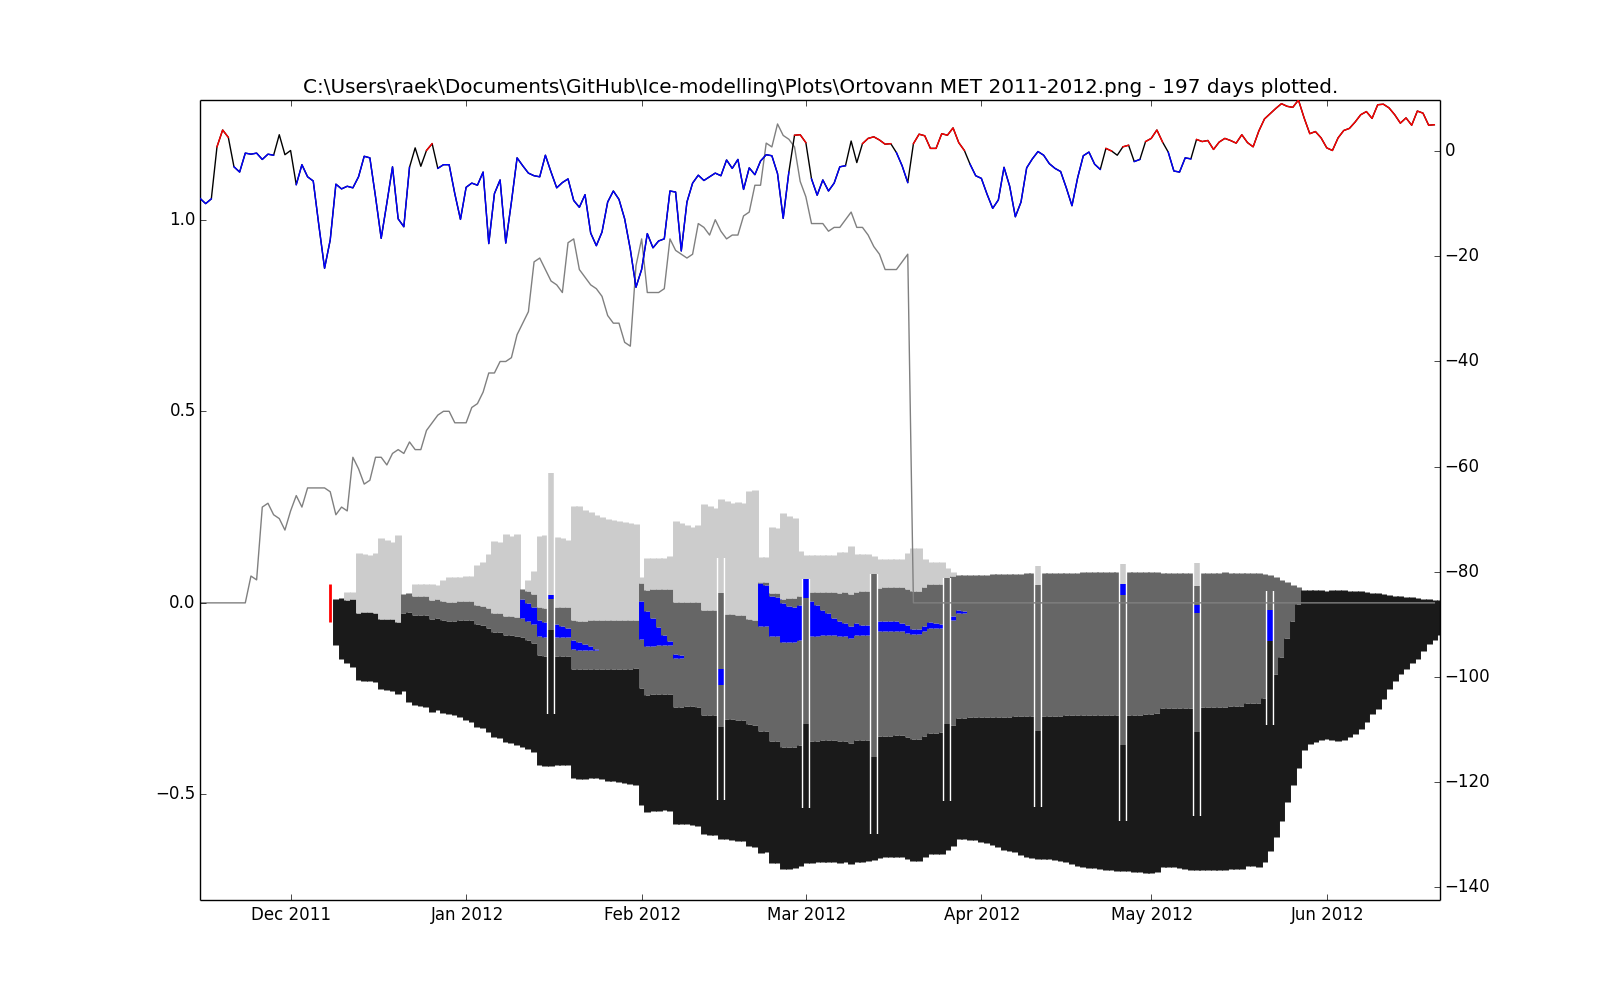
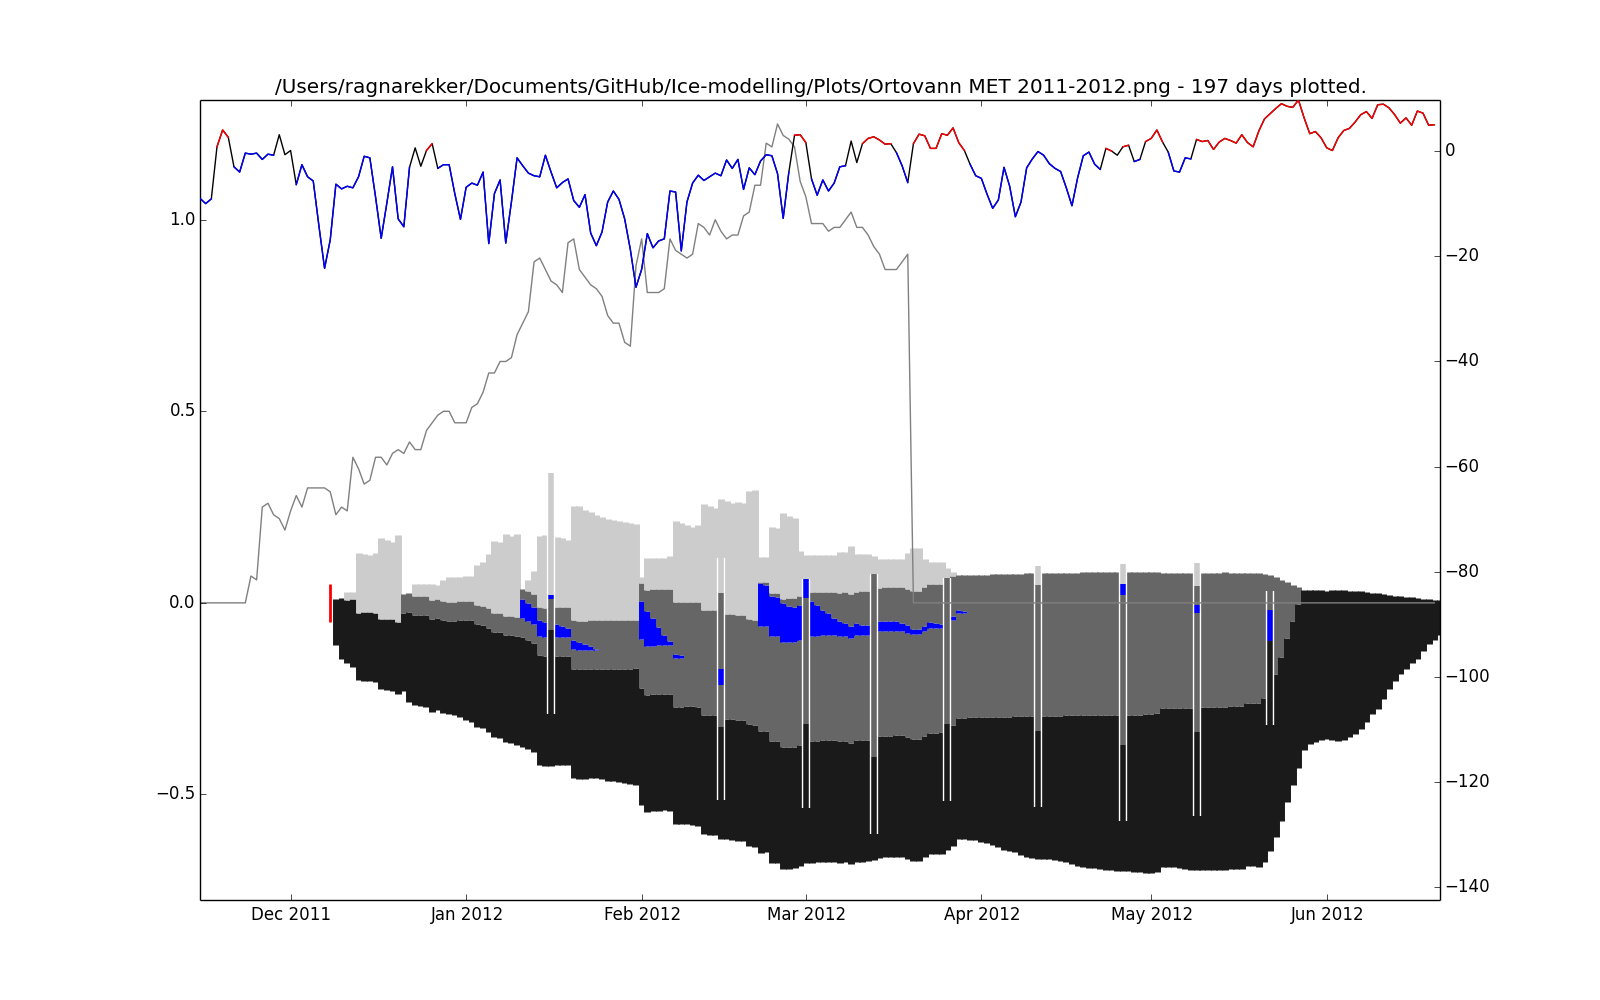
Testing if latest commit works.

Changed region(s): [[0.1875, 0.062, 0.8438, 0.093]]

diff --git a/runIceThicknessCalc.py b/runIceThicknessCalc.py
@@ -8,11 +8,11 @@ import iceColumn
 import copy
 from TimeseriesIO import getMetData, readWeather, makeSnowChangeFromSnowTotal, plotIcecover, importColumns
 
-plot_folder = "C:\\Users\\raek\\Documents\\GitHub\\Ice-modelling\\Plots\\"
-data_path = "C:\\Users\\raek\\Documents\\GitHub\\Ice-modelling\\TimeseriesData\\"
+#plot_folder = "C:\\Users\\raek\\Documents\\GitHub\\Ice-modelling\\Plots\\"
+#data_path = "C:\\Users\\raek\\Documents\\GitHub\\Ice-modelling\\TimeseriesData\\"
 
-#plot_folder = "/Users/ragnarekker/Documents/GitHub/Ice-modelling/Plots/"
-#data_path = "/Users/ragnarekker/Documents/GitHub/Ice-modelling/TimeseriesData/"
+plot_folder = "/Users/ragnarekker/Documents/GitHub/Ice-modelling/Plots/"
+data_path = "/Users/ragnarekker/Documents/GitHub/Ice-modelling/TimeseriesData/"
 
 def calculateIceCover(inn_column, date, temp, sno):
 

diff --git a/runCloudMaker.py b/runCloudMaker.py
@@ -9,9 +9,11 @@ import copy
 import sqlite3 as db
 import datetime
 
-#plot_folder = "/Users/ragnarekker/Documents/GitHub/Ice-modelling/Plots/"
-plot_folder = "C:\\Users\\raek\\Documents\\GitHub\\Ice-modelling\\Plots\\"
+plot_folder = "/Users/ragnarekker/Documents/GitHub/Ice-modelling/Plots/"
 databaseLocation = '/Users/ragnarekker/Documents/GitHub/Ice-modelling/Databases/cloudMakingResults.sqlite'
+
+# plot_folder = "C:\\Users\\raek\\Documents\\GitHub\\Ice-modelling\\Plots\\"
+
 
 def __write2database(database, a, b, c, d, e, f, g, h, i, rms, date, stnr, period):
     """

diff --git a/README.md b/README.md
@@ -1,2 +1,11 @@
 Ice-modelling
 =============
+
+
+Pipeline:
+* comment cloudcover functions
+* run iceThickness model for Hakkloa
+* introduce avg temprature pr layer
+* introduce a EB driving force for dH
+* check crosscorrelation between airtemperature and cloudcover. corr(cc,dT[-1,0,1]) , corr(cc,abs(dT)), ....
+*
